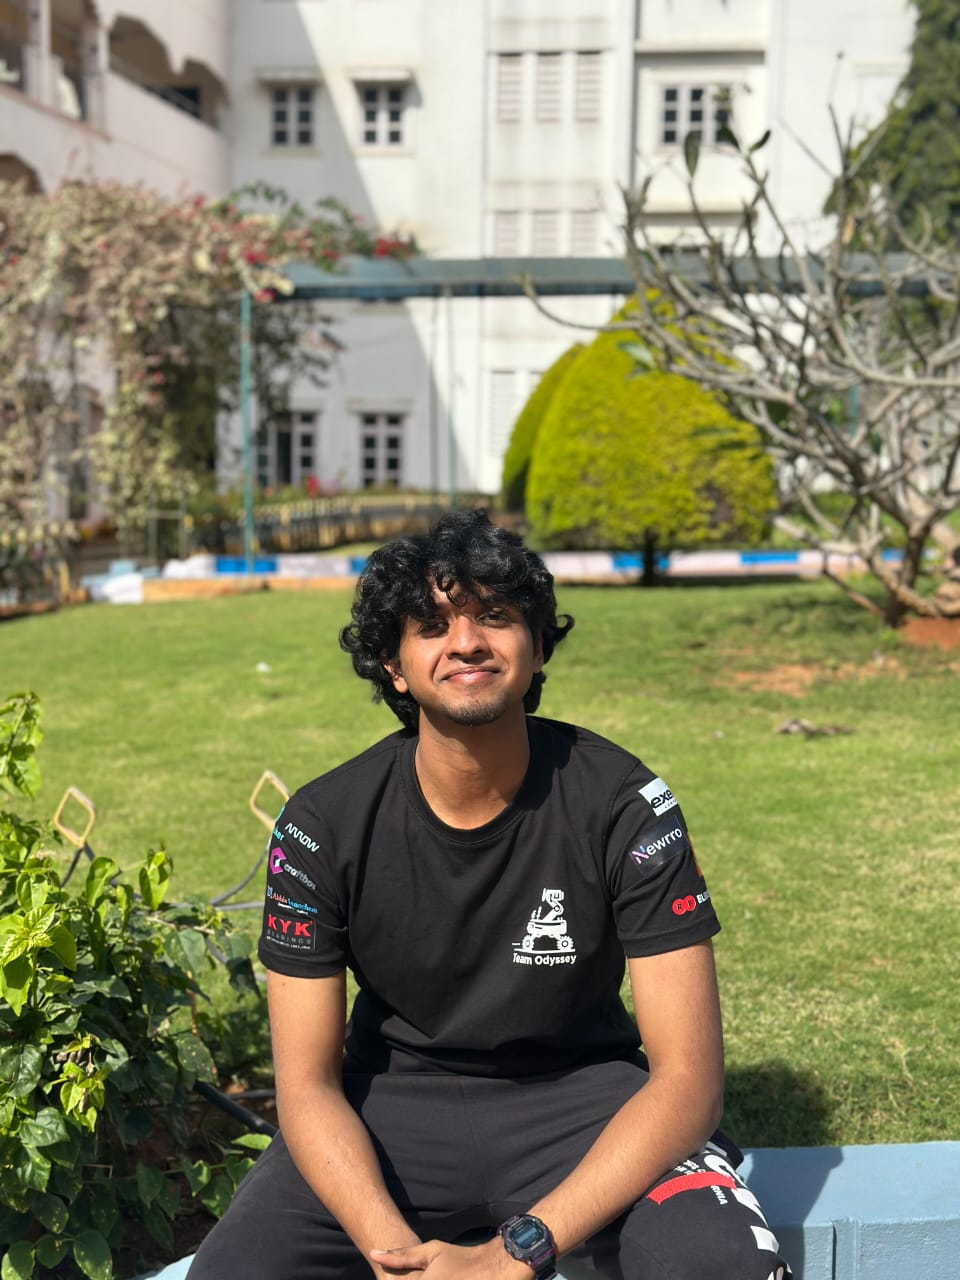
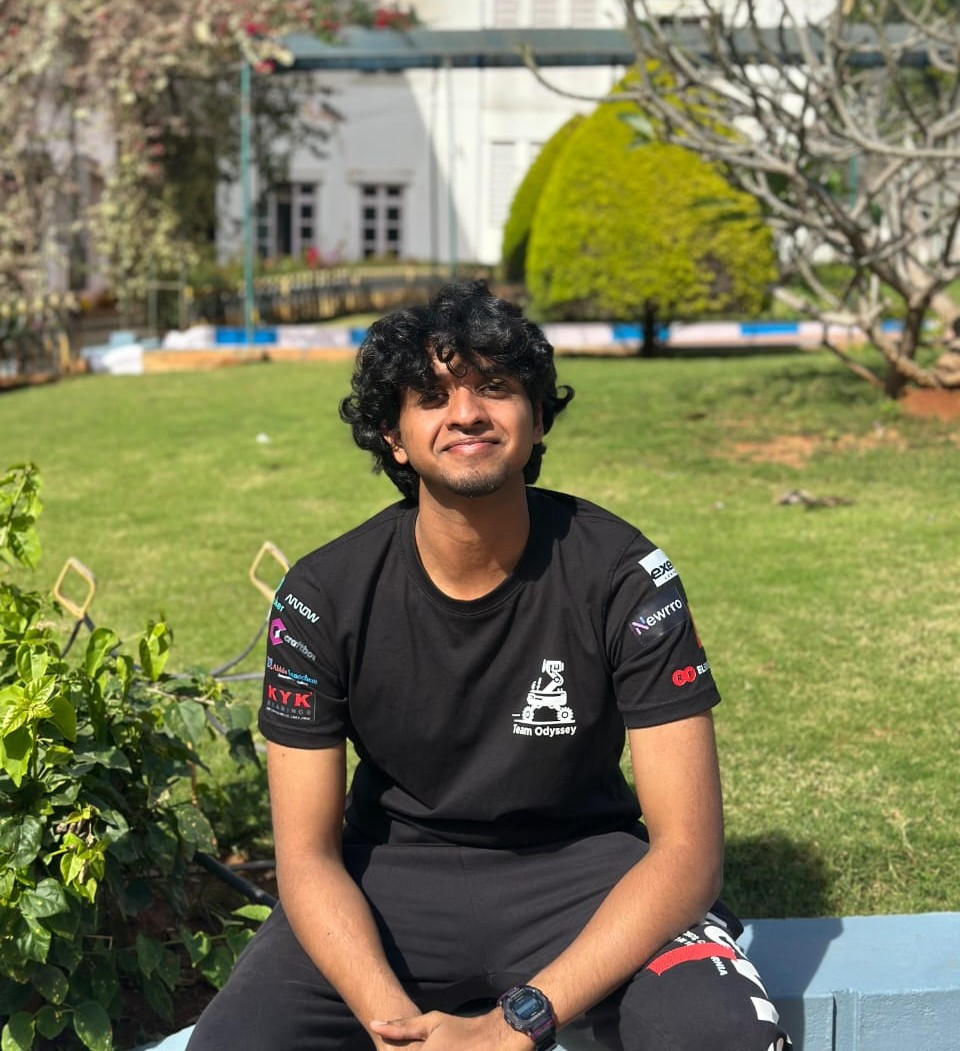
.

diff --git a/slac.html b/slac.html
@@ -1,0 +1,91 @@
+<!DOCTYPE html>
+<html lang="en">
+<head>
+    <meta charset="UTF-8">
+    <meta name="viewport" content="width=device-width, initial-scale=1.0">
+    <title>SLAC - FACE Amrita Bengaluru</title>
+    <link rel="stylesheet" href="styles.css">
+    <link rel="preconnect" href="https://fonts.googleapis.com">
+    <link rel="preconnect" href="https://fonts.gstatic.com" crossorigin>
+    <link href="https://fonts.googleapis.com/css2?family=Inter:wght@400;500;700;900&family=Roboto+Mono:wght@400;600;700&display=swap" rel="stylesheet">
+    <link rel="stylesheet" href="https://cdnjs.cloudflare.com/ajax/libs/font-awesome/6.0.0/css/all.min.css">
+</head>
+<body>
+    <canvas id="page-background"></canvas>
+    <!-- Navigation -->
+    <nav class="navbar">
+        <div class="nav-container">
+            <div class="nav-brand">
+                <a href="index.html">
+                    <img src="FaceLogo.PNG" alt="FACE Logo" class="logo">
+                </a>
+            </div>
+            <ul class="nav-menu">
+                <li><a href="index.html" class="nav-link">Home</a></li>
+                <li><a href="about.html" class="nav-link">About</a></li>
+                <li><a href="events.html" class="nav-link">Events</a></li>
+                <li><a href="team.html" class="nav-link">Team</a></li>
+                <li><a href="slac.html" class="nav-link active" target="_blank">SLAC</a></li>
+                <li><a href="contact.html" class="nav-link">Contact</a></li>
+                <li><a href="credits.html" class="nav-link">Credits</a></li>
+            </ul>
+            <div class="hamburger">
+                <span></span>
+                <span></span>
+                <span></span>
+            </div>
+        </div>
+    </nav>
+
+    <!-- Main Content -->
+    <main>
+        <section class="coming-soon-section" style="padding-top: 8rem; text-align: center; min-height: 60vh; display: flex; flex-direction: column; justify-content: center; align-items: center;">
+            <div class="container">
+                <div class="section-header">
+                    <h2 style="font-size: 4rem; color: var(--brand-primary);">Coming Soon</h2>
+                    <p style="font-size: 1.5rem;">We are working hard to bring you something amazing. Stay tuned!</p>
+                </div>
+            </div>
+        </section>
+    </main>
+
+    <!-- Footer -->
+    <footer class="footer">
+        <div class="container">
+            <div class="footer-content">
+                <div class="footer-brand">
+                    <img src="FaceLogo.PNG" alt="FACE Logo" class="footer-logo">
+                    <p>Building the future, one line of code at a time.</p>
+                </div>
+                <div class="footer-links">
+                    <div class="footer-section">
+                        <h4>Quick Links</h4>
+                        <ul>
+                            <li><a href="index.html"><i class="fas fa-home"></i> Home</a></li>
+                            <li><a href="about.html"><i class="fas fa-info-circle"></i> About</a></li>
+                            <li><a href="events.html"><i class="fas fa-calendar"></i> Events</a></li>
+                            <li><a href="team.html"><i class="fas fa-users"></i> Team</a></li>
+                            <li><a href="credits.html"><i class="fas fa-star"></i> Credits</a></li>
+                        </ul>
+                    </div>
+                    <div class="footer-section">
+                        <h4>Connect</h4>
+                        <ul>
+                            <li><a href="https://outlook.live.com/mail/0/deeplink/compose?to=faceclubamrita@gmail.com" target="_blank" rel="noopener noreferrer"><i class="fas fa-envelope"></i> Email</a></li>
+                            <li><a href="https://www.instagram.com/face_aseb/" target="_blank" rel="noopener noreferrer"><i class="fab fa-instagram"></i> Instagram</a></li>
+                            <li><a href="https://www.linkedin.com/in/face-amrita/" target="_blank" rel="noopener noreferrer"><i class="fab fa-linkedin"></i> LinkedIn</a></li>
+                            <li><a href="https://github.com/FACE-ASEB2025" target="_blank" rel="noopener noreferrer"><i class="fab fa-github"></i> GitHub</a></li>
+                        </ul>
+                    </div>
+                </div>
+            </div>
+            <div class="footer-bottom">
+                <p>&copy; 2025 FACE - Amrita Bengaluru. All rights reserved.</p>
+                <p>Built by the FACE development team</p>
+            </div>
+        </div>
+    </footer>
+
+    <script src="script.js"></script>
+</body>
+</html>

diff --git a/team.html b/team.html
@@ -25,7 +25,7 @@
                 <li><a href="about.html" class="nav-link">About</a></li>
                 <li><a href="events.html" class="nav-link">Events</a></li>
                 <li><a href="team.html" class="nav-link active">Team</a></li>
-                <li><a href="https://slac-amrita.netlify.app/" class="nav-link" target="_blank">SLAC</a></li>
+                <li><a href="slac.html" class="nav-link" target="_blank">SLAC</a></li>
                 <li><a href="contact.html" class="nav-link">Contact</a></li>
                 <li><a href="credits.html" class="nav-link">Credits</a></li>
             </ul>
@@ -50,7 +50,7 @@
                 <h2 class="team-category-title">Office Bearers</h2>
                 <div class="team-grid office-bearers-grid">
                     <div class="team-card card">
-                        <img src="andrew.jpeg" alt="Team Member" class="team-image">
+                        <img src="andrew.jpeg" alt="Team Member" class="team-image portrait-view">
                         <div class="team-info">
                             <h3>Andrew Tom Mathew</h3>
                             <p class="team-role">President</p>
@@ -187,7 +187,7 @@
                             </div>
                         </div>
                         <div class="team-card card">
-                            <img src="https://picsum.photos/seed/ev4/400/400" alt="Team Member" class="team-image">
+                            <img src="deepthi.jpeg" alt="Team Member" class="team-image portrait-view">
                             <div class="team-info">
                                 <h3>K Deepti</h3>
                                 <p class="team-role">Executive</p>

diff --git a/styles.css b/styles.css
@@ -518,6 +518,10 @@ Past Events Section - Styles for future use
     object-position: center center;
     transition: transform 0.4s ease;
 }
+/* Added to fix portrait image cropping */
+.team-image.portrait-view {
+    object-position: center top; 
+}
 .team-card .team-info { padding: 1.5rem; flex-grow: 1; display: flex; flex-direction: column; }
 .team-card h3 { font-size: 1.25rem; font-weight: 700; color: #fff; margin: 0 0 0.25rem; font-family: 'NeueMachina-Ultrabold', sans-serif; }
 .team-card .team-role { color: var(--brand-primary); margin-bottom: 1rem; font-family: 'NeueMachina-Ultrabold', sans-serif; font-size: 0.9rem; flex-grow: 1; }

diff --git a/about.html b/about.html
@@ -25,7 +25,7 @@
                 <li><a href="about.html" class="nav-link active">About</a></li>
                 <li><a href="events.html" class="nav-link">Events</a></li>
                 <li><a href="team.html" class="nav-link">Team</a></li>
-                <li><a href="https://slac-amrita.netlify.app/" class="nav-link" target="_blank">SLAC</a></li>
+                <li><a href="slac.html" class="nav-link" target="_blank">SLAC</a></li>
                 <li><a href="contact.html" class="nav-link">Contact</a></li>
                 <li><a href="credits.html" class="nav-link">Credits</a></li>
             </ul>

diff --git a/contact.html b/contact.html
@@ -25,7 +25,7 @@
                 <li><a href="about.html" class="nav-link">About</a></li>
                 <li><a href="events.html" class="nav-link">Events</a></li>
                 <li><a href="team.html" class="nav-link">Team</a></li>
-                <li><a href="https://slac-amrita.netlify.app/" class="nav-link" target="_blank">SLAC</a></li>
+                <li><a href="slac.html" class="nav-link" target="_blank">SLAC</a></li>
                 <li><a href="contact.html" class="nav-link active">Contact</a></li>
                 <li><a href="credits.html" class="nav-link">Credits</a></li>
             </ul>

diff --git a/credits.html b/credits.html
@@ -25,7 +25,7 @@
                 <li><a href="about.html" class="nav-link">About</a></li>
                 <li><a href="events.html" class="nav-link">Events</a></li>
                 <li><a href="team.html" class="nav-link">Team</a></li>
-                <li><a href="https://slac-amrita.netlify.app/" class="nav-link" target="_blank">SLAC</a></li>
+                <li><a href="slac.html" class="nav-link" target="_blank">SLAC</a></li>
                 <li><a href="contact.html" class="nav-link">Contact</a></li>
                 <li><a href="credits.html" class="nav-link active">Credits</a></li>
             </ul>

diff --git a/events.html b/events.html
@@ -25,7 +25,7 @@
                 <li><a href="about.html" class="nav-link">About</a></li>
                 <li><a href="events.html" class="nav-link active">Events</a></li>
                 <li><a href="team.html" class="nav-link">Team</a></li>
-                <li><a href="https://slac-amrita.netlify.app/" class="nav-link" target="_blank">SLAC</a></li>
+                <li><a href="slac.html" class="nav-link" target="_blank">SLAC</a></li>
                 <li><a href="contact.html" class="nav-link">Contact</a></li>
                 <li><a href="credits.html" class="nav-link">Credits</a></li>
             </ul>

diff --git a/home.html b/home.html
@@ -35,7 +35,7 @@
                 <li><a href="about.html" class="nav-link">About</a></li>
                 <li><a href="events.html" class="nav-link">Events</a></li>
                 <li><a href="team.html" class="nav-link">Team</a></li>
-                <li><a href="https://slac-amrita.netlify.app/" class="nav-link" target="_blank">SLAC</a></li>
+                <li><a href="slac.html" class="nav-link" target="_blank">SLAC</a></li>
                 <li><a href="contact.html" class="nav-link">Contact</a></li>
                 <li><a href="credits.html" class="nav-link">Credits</a></li>
             </ul>
